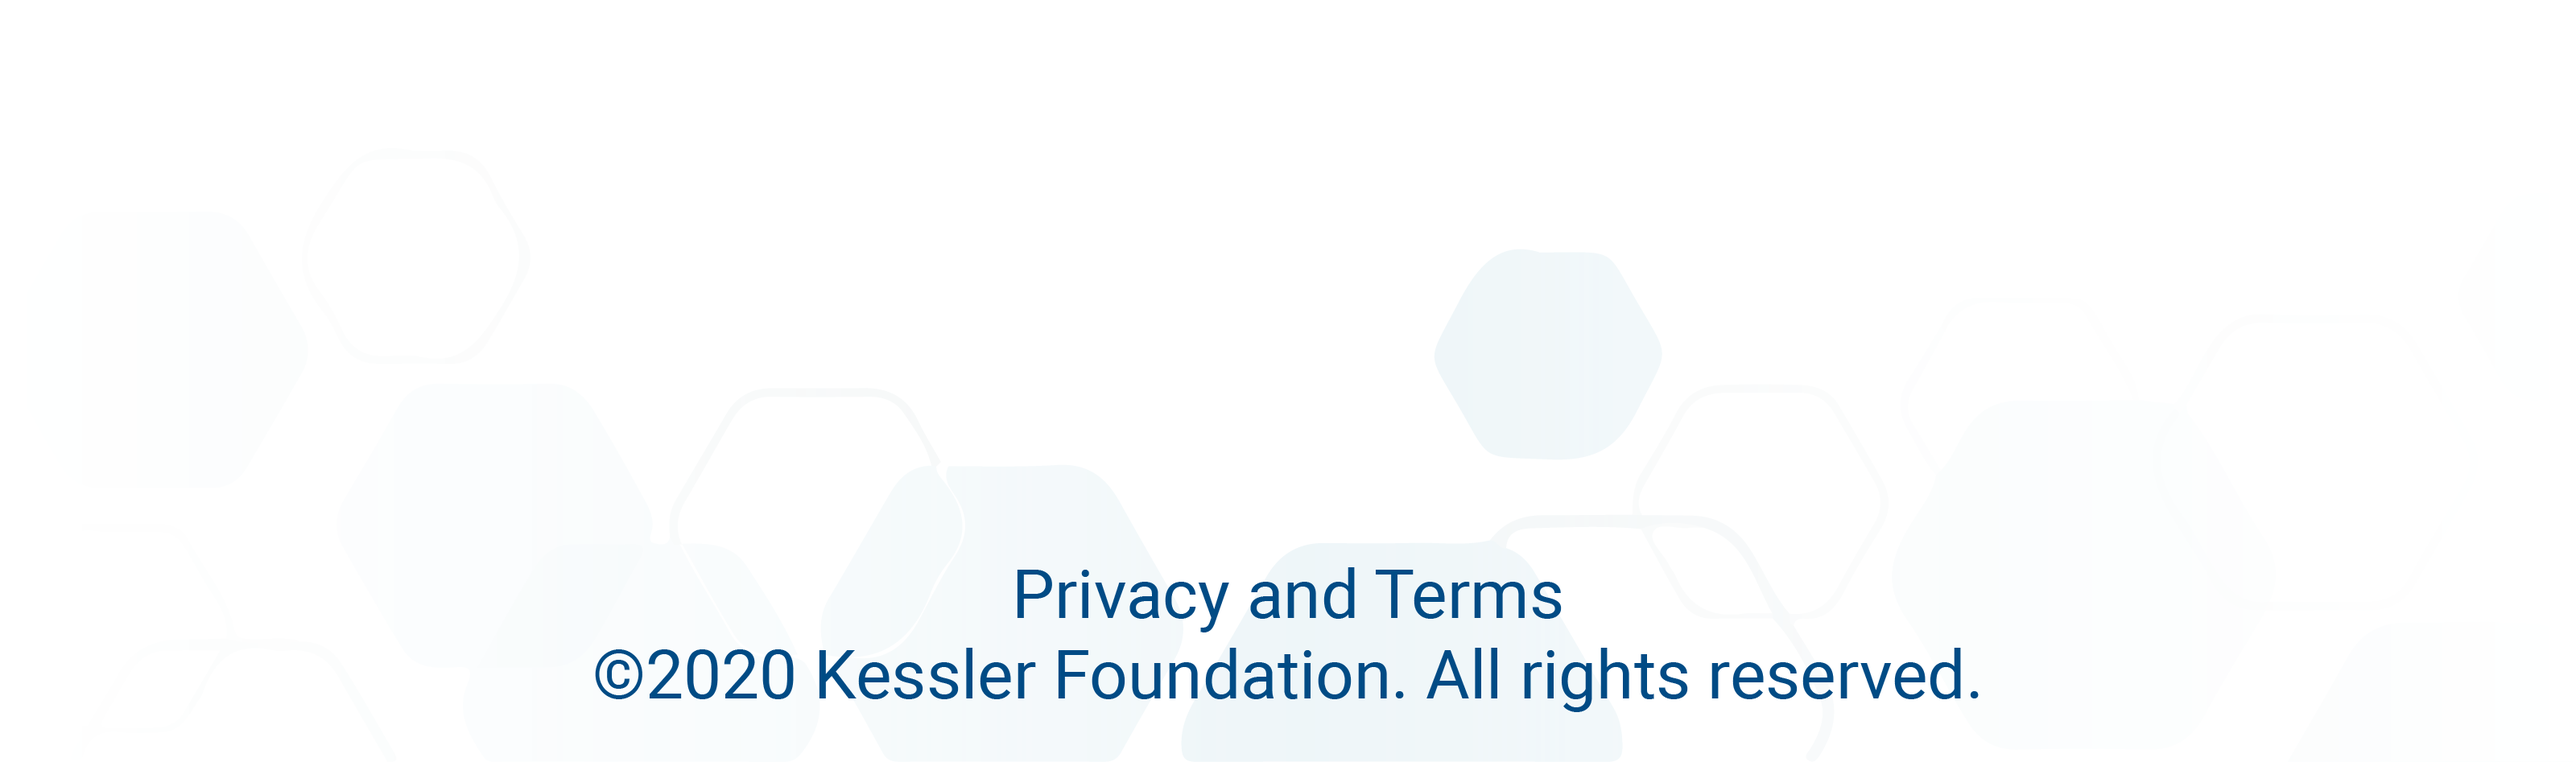
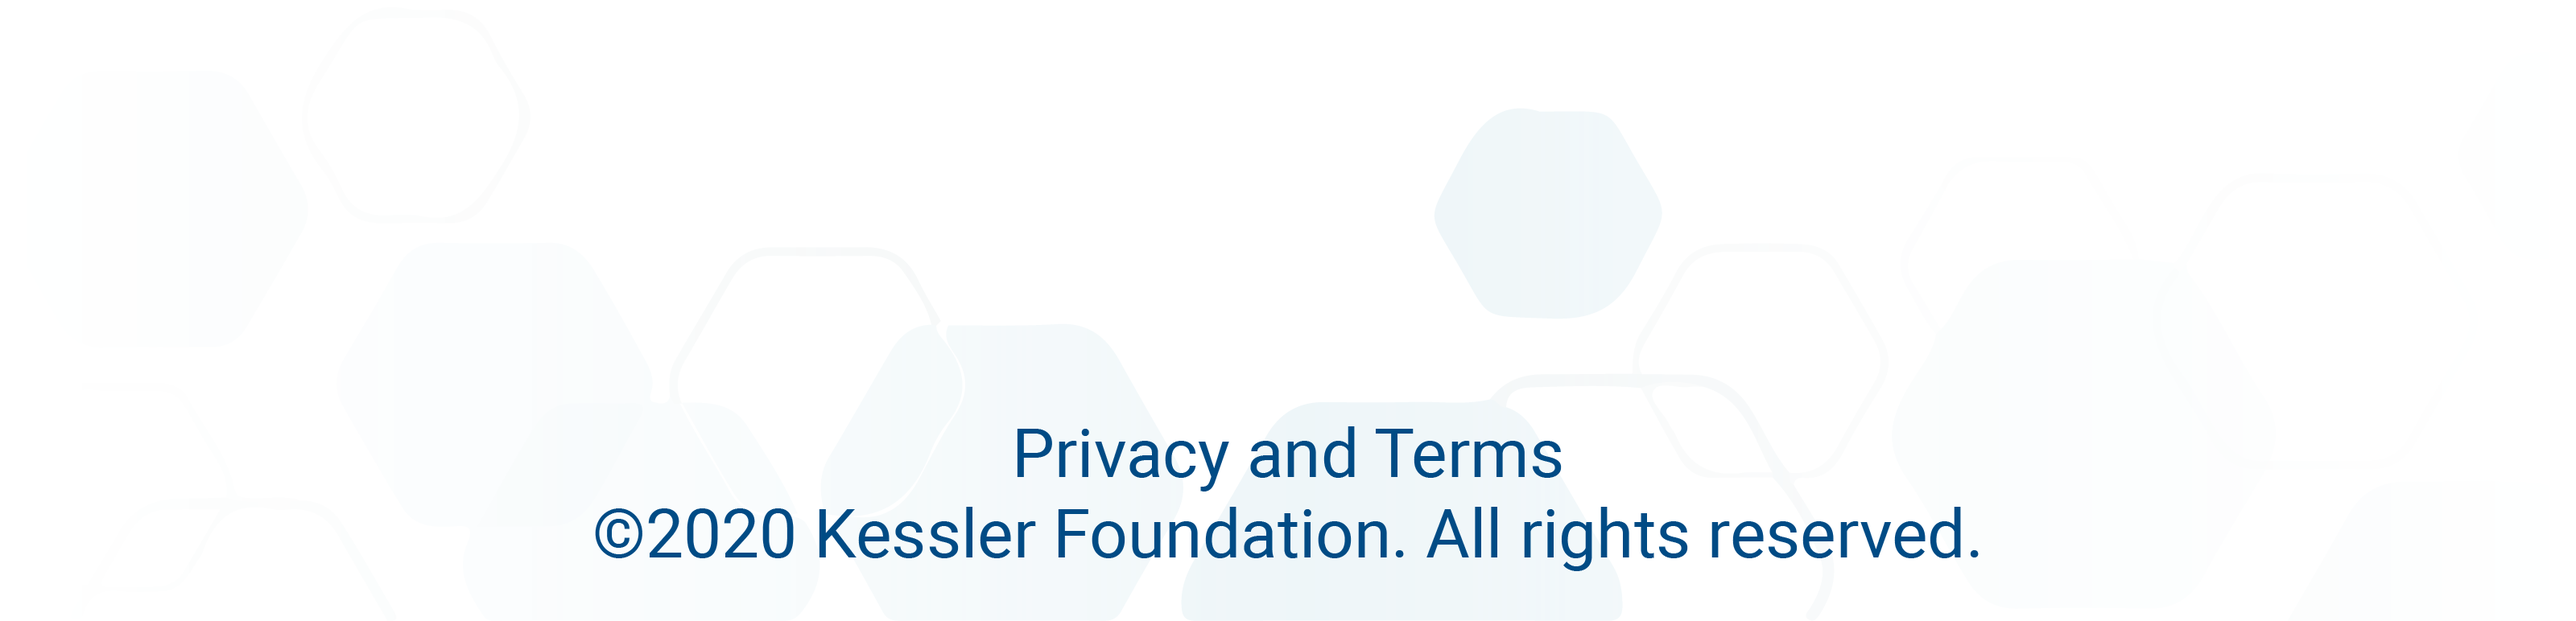
Fixed the issue that was found in testing.

Changed region(s): [[0.2188, 0.6839, 0.7812, 0.9326]]

diff --git a/public/css/app.css b/public/css/app.css
@@ -1,28 +1,28 @@
-body {
+.main-body {
     min-height: 100vh;
-    position: relative;
+    position: absolute;
   }
 .container {
-  padding-bottom: 225px;
   margin:auto;
   color:#004B85;
   font-family:Helvetica;
   text-align: center;
   font-size:30px;
   flex-grow: 1;
+  padding-bottom: 50px;
 }
 #footer {
-  position: absolute;
-  bottom: 0;
+  position: relative;
+  bottom: 0px;
   width: 100%;
-  height: 300px;            /* Footer height */
+  height: 155px;            /* Footer height */
 }
 .starter-template {
   padding: 3rem 1.5rem;
   text-align: center;
 }
 .grey-background {
-  background-color: #f9f9f9;
+  background-color: #F9F9FA;
 }
 .white-background {
   background-color: #fff;

diff --git a/app/Http/Controllers/TraineeSessionController.php b/app/Http/Controllers/TraineeSessionController.php
@@ -117,8 +117,10 @@ class TraineeSessionController extends Controller
         //$this->pr($trainee);
         $traineeRecord = Trainee::where('session_pin', $trainee['session_pin'])->first();
         $traineeCurrentPosition = $traineeRecord->session_current_position !== null?json_decode($traineeRecord->session_current_position):$this->traineeCurrentPosition;
-        $wordStory = $this->getWords($trainee);
+        $wordStory = $this->getWords($traineeRecord);
+        //$this->pr($traineeRecord);
         $allWords = $words = $wordStory->toArray();
+        //$this->pr($allWords);
         if ($traineeCurrentPosition->position === 'review' || $traineeCurrentPosition->position === 'tale' ) {
           return redirect('/review');
         } else if ($traineeCurrentPosition->position === 'recall' ) {

diff --git a/resources/views/layouts/master.blade.php b/resources/views/layouts/master.blade.php
@@ -13,15 +13,16 @@
   </head>
   <body>
     <!-- Page Content -->
-    <div id="container" class="container grey-background">
+    <div id="container" class="container grey-background" style="padding-bottom: 0px;">
       <div id="header">
         <img src="{{asset('assets/img/logo.png')}}" alt="logo" />
       </div>
         @yield('content')
-      <div id="footer">
+      <div id="footer1">
         <img src="{{asset('assets/img/footer.png')}}" class="center"/>
       </div>
     </div>
+   
     <!-- Bootstrap core JavaScript -->
     <script src="{{asset('vendor/bootstrap/js/bootstrap.bundle.min.js')}}"></script>
   </body>

diff --git a/resources/views/msmt/layouts/master.blade.php b/resources/views/msmt/layouts/master.blade.php
@@ -19,9 +19,9 @@
     <script src="{{asset('vendor/jquery/jquery.min.js')}}"></script>
   </head>
   @isset($page)
-    <body class="grey-background">
+    <body class="main-body grey-background">
   @else
-    <body class="white-background">
+    <body class="main-body white-background">
   @endisset
     <main role="main" class="container">
       <div id="header">
